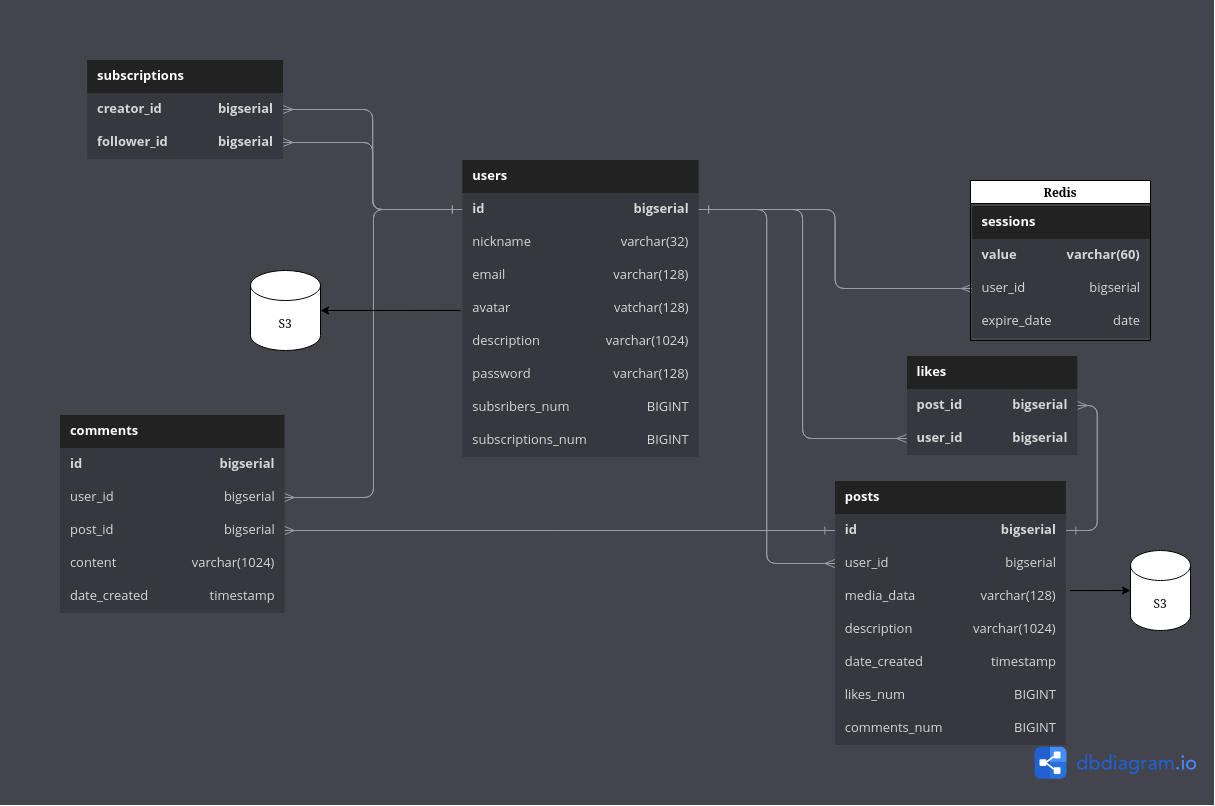
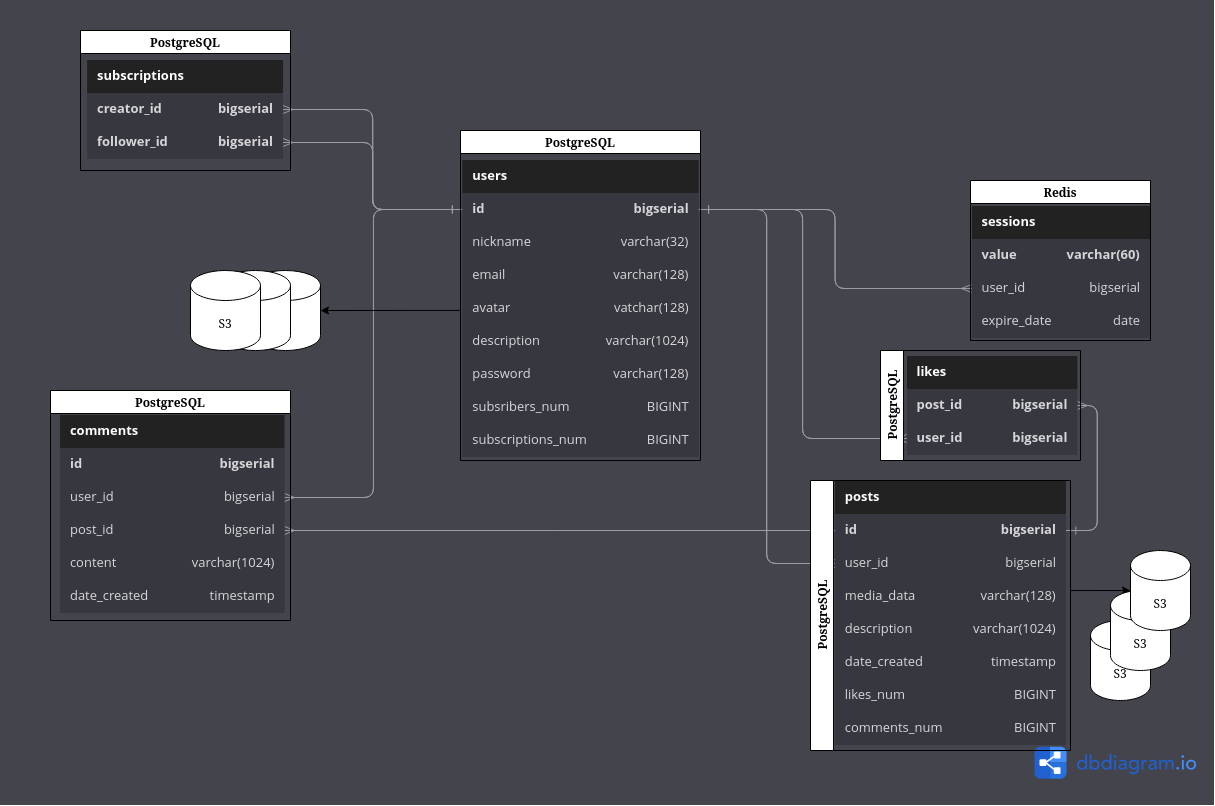
add description for physical schema

diff --git a/README.md b/README.md
@@ -53,7 +53,7 @@
 3. Среднее время онлайна пользователя - 7 мин. 42 сек. За это время пользователю удается просмотреть 10 страниц.
 4. Средний размер хранилища пользователя:
 
-Так как информацию насчет среднего количество входов в аккаунт и регистраций найти не удалось, прибегну к приблизительным расчетам.
+Так как информацию насчет среднего количества входов в аккаунт и регистраций найти не удалось, прибегну к приблизительным расчетам.
 Будем считать, что так как в среднем за день имеется 500 млн. активных пользователей, то и авторизаций производится столько же.
 
 Перейдем к регистрации: за 2021 год было насчитано 1.21 биллиона пользователей, когда за 2022 1.3 биллиона. Это значит, что за год прибавилось 90 000 млн. пользователей. Значит, грубой оценкой можно посчитать среднее количество регистраций в день: `9 * 10^10 / 365 = 246 575 342`. То есть количество регистраций в день достигает 246 млн.
@@ -148,7 +148,7 @@
 ### Описание таблиц
 
 1. Пользователи (users) - таблица со всеми необходимыми данными о пользователе.
-    - Primary key: id пользователя
+    - Primary key: id пользователяj
 2. Посты (posts) - таблица с постами пользователями, которая включает в себя все необходимое для отображения поста.
     - Primary key: id поста;
     - Foreign key: user_id.
@@ -161,10 +161,39 @@
 6. Сессии (sessions) - таблица со всеми сессиями пользователей.
     - Foreign key: user_id.
 
- ## Физическая схема
+## Физическая схема
 
  ![Физическая схема](/img/physical_schema.png)
 
-## Источники
+1. Сессии пользователей
+
+ Сессии пользователей будут очень часто изменяться по очевидным причиам. Из-за этого нужно осуществить быстрый доступ на получение текущих пользователей, быстрое удаление и добавление. Таким образом их лучше всего хранить в оперативной памяти, с чем прекрасно будет справляться нереляцонная in-memory база данных - `Redis`. В данном случае, ключом будет значение сессии, а значением - id пользователя и дата истечения сессии.
+
+2. Пользователи и посты
+
+ Пользователи же будут находиться в реляционной базе `PostgreSQL`, так как она представляет возможность делать сложные запросы, устанавливать отношения для легкой организации и связывания данных, а также поддерживает обширный функционал для масштабирования. Однако аватарки пользователей хранить там же не представляется возможным за счет большого размера картинок всех пользователей, что будет заметно замедлять работу базы. Поэтому для хранения аватарок будет использоваться `Amazon S3-хранилище`, который имеет высокую скорость чтения, высокую доступность и долговечных данных. В самой же реляционной базе будем хранить ссылку на картунку в S3.
+
+ Аналогично пользователям данные постов будем хранить в `PostgreSQL`, а картинки/видео в `S3-хранилище`.
+
+3. Комментарии, лайки, подписки
+
+ Данные хорошо ложаться на реляционную модель, поэтому будем хранить их в `PostgreSQL`.
+
+### Индексы
+
+ - Индекс на поле `nickname` в таблице `users` будет нужен в случае того, если пользователь решит найти другого по никнейму. Таким образом индекс увеличит селективность по этому полю;
+ - Индекс на поле `user_id` в таблице `posts` нужен для быстрого поиска пользователя, пост которого был увиден;
+ - Индекс на поле `post_id` в таблице `comments` нужен для быстрой подгрузки всех комментраиев у посту;
+ - Индексы на поля `creator_id` и `follower_id` в таблице `subscriptions` будут полезны для улучшения селективности подписчиков и подписок соответственно.
+
+### Шардирование
+
+ - Users: шардирование будет проводиться по range-based принципу для более равномерного распределения данных;
+ - Posts: здесь можно применить партиционирование по принципу range-based, а шардировать по разным инстансам по дате создания поста. Таким образом новые посты будут находиться в одном месте, что позволит быстро получать их для прогрузкки ленты или первых постов на странице пользователя. Старые же посты так же будут доставляться быстро;
+ - Comments: комментарии будет логично шардировать по такому же принципу, что и посты для согласованности данных, то есть на том же инстансе, что и посты нужной даты.
+
+### Репликация
+
+Для PostgreSQL будет сделана 1 Master, 2 Slaves репликация. Таким образом, когда на Master базу будут записываться данные, с Slave баз будет читаться информация. Также при отказе одного Slave узла чтение может продолжится посредством переключения на другой узел. 
 
 1. [Статистика по пользователям](https://www.statista.com/topics/1882/instagram)
